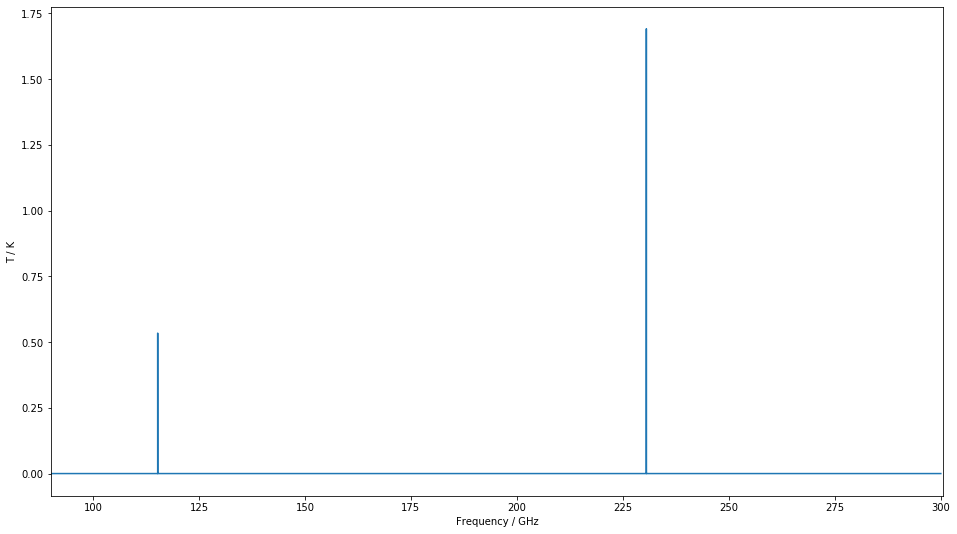
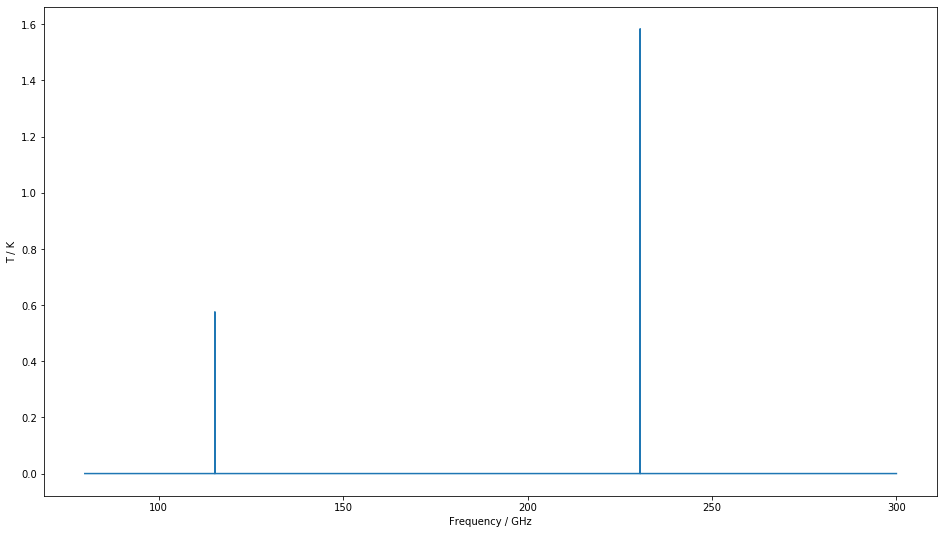
pandas version change broke apply() in model_spectrum() switch to numpy implementation

diff --git a/src/spectralradex/__init__.py b/src/spectralradex/__init__.py
@@ -61,7 +61,7 @@ def model_spectrum(obs_freqs,v0,radex_params,tau_profile=maxwellian_distribution
     :type tau_profile: function, optional
     """
 
-    #make sure input frquencies are sorted array
+    #make sure input frquencies are a sorted array
     obs_freqs=np.asarray(obs_freqs)
     obs_freqs.sort()
     
@@ -71,7 +71,8 @@ def model_spectrum(obs_freqs,v0,radex_params,tau_profile=maxwellian_distribution
     delta_v=radex_params["linewidth"]
 
     #obtain tau as a function of frequency and tau*radiation temperature for each line
-    solve=tau_0_df.apply(get_tau_distribution,axis=1,args=(v0,delta_v,obs_freqs,tau_profile),raw=True)
+    vfunc=lambda x: get_tau_distribution(x,v0,delta_v,obs_freqs,tau_profile)
+    solve=np.apply_along_axis(vfunc,axis=1,arr=tau_0_df.values)
 
     #sum to get total optical depth
     taus=[x[0] for x in solve]
@@ -96,7 +97,7 @@ def get_tau_distribution(x,v0,delta_v,frequencies,tau_profile):
     """
     #unpack tau_df row
     line_freq,tau_0,t_ex=x
-    
+
     #get the relative velocity of all the emitting frequencies
     velocities=((line_freq/frequencies)-1.0)*light_speed
     

diff --git a/docs/tutorials/spectralmodelling.rst b/docs/tutorials/spectralmodelling.rst
@@ -13,8 +13,9 @@ spectrum.
 .. code:: python
 
     import spectralradex
-    import matplotlib.pyplot as plt
     import numpy as np
+    import pandas as pd
+    import matplotlib.pyplot as plt
 
 First, we need a radex model. This is just a dictionary with the RADEX
 inputs as keys. For this example, we’ll start by grabbing the default
@@ -37,7 +38,7 @@ density and the linewidth as well as setting fmax to 300 GHz.
 
 .. parsed-literal::
 
-    {'molfile': 'co.dat', 'tkin': 30.0, 'tbg': 2.73, 'cdmol': 1e+16, 'h2': 100000.0, 'h': 0.0, 'e-': 0.0, 'p-h2': 10000.0, 'o-h2': 10000.0, 'h+': 0.0, 'linewidth': 10, 'fmin': 0.0, 'fmax': 300}
+    {'molfile': 'co.dat', 'tkin': 30.0, 'tbg': 2.73, 'cdmol': 1e+16, 'h2': 100000.0, 'h': 0.0, 'e-': 0.0, 'p-h2': 10000.0, 'o-h2': 10000.0, 'h+': 0.0, 'linewidth': 10, 'fmin': 0.0, 'fmax': 300, 'geometry': 1}
 
 
 We also need a list of frequencies over which we’d like the spectrum.
@@ -54,13 +55,20 @@ observations: the frequency bins you observed and the assume
 
     frequencies=np.arange(80,300,0.005)
     v0=0.0
-    spectrum=spectralradex.calculate_spectrum(frequencies,v0,radex_params)
+    spectrum=spectralradex.model_spectrum(frequencies,v0,radex_params)
+
+
+.. parsed-literal::
+
+    /home/jon/.local/lib/python3.7/site-packages/spectralradex/__init__.py:84: RuntimeWarning: invalid value encountered in true_divide
+      rad_weights=np.sum(rad_weights,axis=0)/taus
+
 
 .. code:: python
 
     fig,ax=plt.subplots(figsize=(16,9))
     ax.plot(spectrum["Frequency"],spectrum["Intensity"],drawstyle="steps-mid")
-    settings=ax.set(xlim=(90,300.6),xlabel="Frequency / GHz",ylabel="T / K")
+    settings=ax.set(xlabel="Frequency / GHz",ylabel="T / K")
 
 
 
@@ -74,14 +82,20 @@ assume for all line in SpectralRadex.
 .. code:: python
 
     radex_params["linewidth"]=100
-    spectrum=spectralradex.calculate_spectrum(frequencies,v0,radex_params)
+    spectrum=spectralradex.model_spectrum(frequencies,v0,radex_params)
     fig,ax=plt.subplots(figsize=(16,9))
     ax.plot(spectrum["Frequency"],spectrum["Intensity"],drawstyle="steps-mid")
     settings=ax.set(xlim=(115.1,115.45),ylim=(0,0.1),xlabel="Frequency / GHz",ylabel="T / K")
 
 
+.. parsed-literal::
 
-.. image:: spectralmodelling_files/spectralmodelling_9_0.png
+    /home/jon/.local/lib/python3.7/site-packages/spectralradex/__init__.py:84: RuntimeWarning: invalid value encountered in true_divide
+      rad_weights=np.sum(rad_weights,axis=0)/taus
+
+
+
+.. image:: spectralmodelling_files/spectralmodelling_9_1.png
 
 
 Finally, please note that if you sample with too large a frequency bin,
@@ -95,13 +109,18 @@ Here we repeat the above calculation with a 50 MHz frequency spacing.
 
     frequencies=np.arange(30,300,0.05)
     v0=0.0
-    spectrum=spectralradex.calculate_spectrum(frequencies,v0,radex_params)
+    spectrum=spectralradex.model_spectrum(frequencies,v0,radex_params)
     fig,ax=plt.subplots(figsize=(16,9))
     ax.plot(spectrum["Frequency"],spectrum["Intensity"],drawstyle="steps-mid")
     settings=ax.set(xlim=(90,300.6),xlabel="Frequency / GHz",ylabel="T / K")
 
 
+.. parsed-literal::
 
-.. image:: spectralmodelling_files/spectralmodelling_11_0.png
+    /home/jon/.local/lib/python3.7/site-packages/spectralradex/__init__.py:84: RuntimeWarning: invalid value encountered in true_divide
+      rad_weights=np.sum(rad_weights,axis=0)/taus
 
+
+
+.. image:: spectralmodelling_files/spectralmodelling_11_1.png
 
